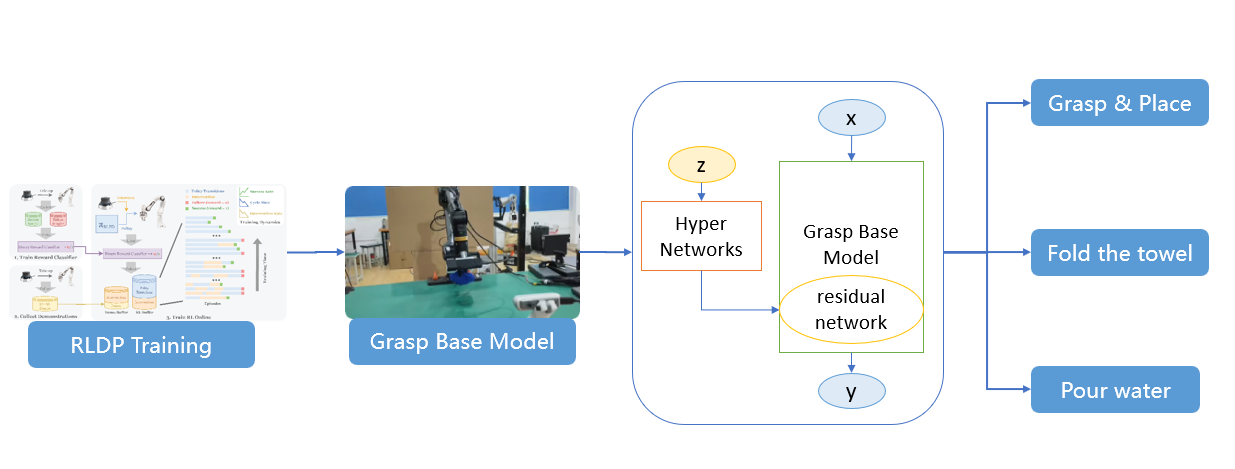
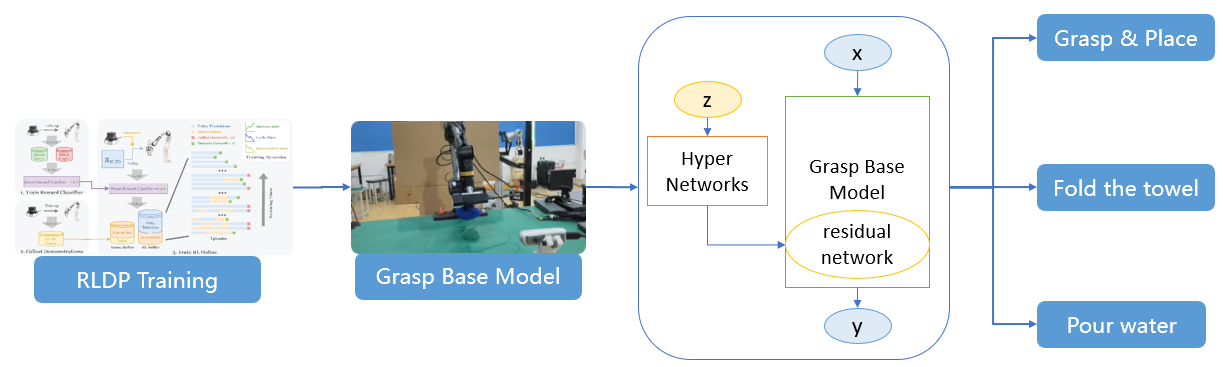
replace image and modify order

diff --git a/_posts/2025-05-05-PiperHil.md b/_posts/2025-05-05-PiperHil.md
@@ -9,8 +9,7 @@ tags: [Hypernetworks, Reinforcement Learning, Robust, Manipulation]
 ## Introduction
 A reinforcement learning system based on residual hypernetwork pools and real-time human demonstrations is proposed to achieve robust learning for long-order and complex arm operation tasks. This system enables the robotic arm to continuously try and explore through reinforcement learning. It first trains the basic model for grasping, and then learns different branch skills through the hypernetwork pool. Under the real-time teaching of the operator, it acquires more refined operation skills and features high robustness and a 100% success rate.
 
-## Flowchart
-![hil hyper](/images/hil/hil_hyper.png)
+
 
 
 ## Experiment
@@ -23,6 +22,9 @@ A reinforcement learning system based on residual hypernetwork pools and real-ti
 </body>
 </html>
 
+
+## Method
+![hil hyper](/images/hil/hil_hyper.png)
 
 <!-- The video shows a robot imitation learning experiment based on ROS/Gazebo. In the simulation environment, a robotic arm is operating a red and blue cube on the workbench. The "color_image" window in the top left corner displays the image information from the perspective of the robotic arm. This experiment aims to train the robot to complete cube manipulation tasks through imitation learning. -->
 

diff --git a/_posts/2025-02-14-ArmPaper.md b/_posts/2025-02-14-ArmPaper.md
@@ -34,7 +34,8 @@ In this paper, we propose a prescribed-time synchronization (PTS) algorithm for 
 
 <!-- The figure presents a training process based on action block imitation learning.  In Step 1, it samples data from a demo dataset, including RGB images and joints information, to form an action sequence.  Step 2 involves inferring z through a transformer encoder with self - attention blocks, embedding joints and action sequences.  In Step 3, it uses a ResNet18 and transformer encoder and decoder to predict the action sequence, incorporating position embeddings and linear layers to output the predicted actions. -->
 
-![Physhical Curves](/images/arm/physical_curves.png)
+## Method
+![Arm Flowchart](/images/arm/arm_flowchart.png)
 
 <!-- The figure illustrates a Transformer - based testing process for predicting action sequences. ResNet18 extracts features from images of four cameras. These features, combined with sinusoidal position embeddings, are fed into a Transformer encoder. The encoder processes them and passes to a Transformer decoder, which generates the predicted action sequence with the aid of position embeddings. -->
 
